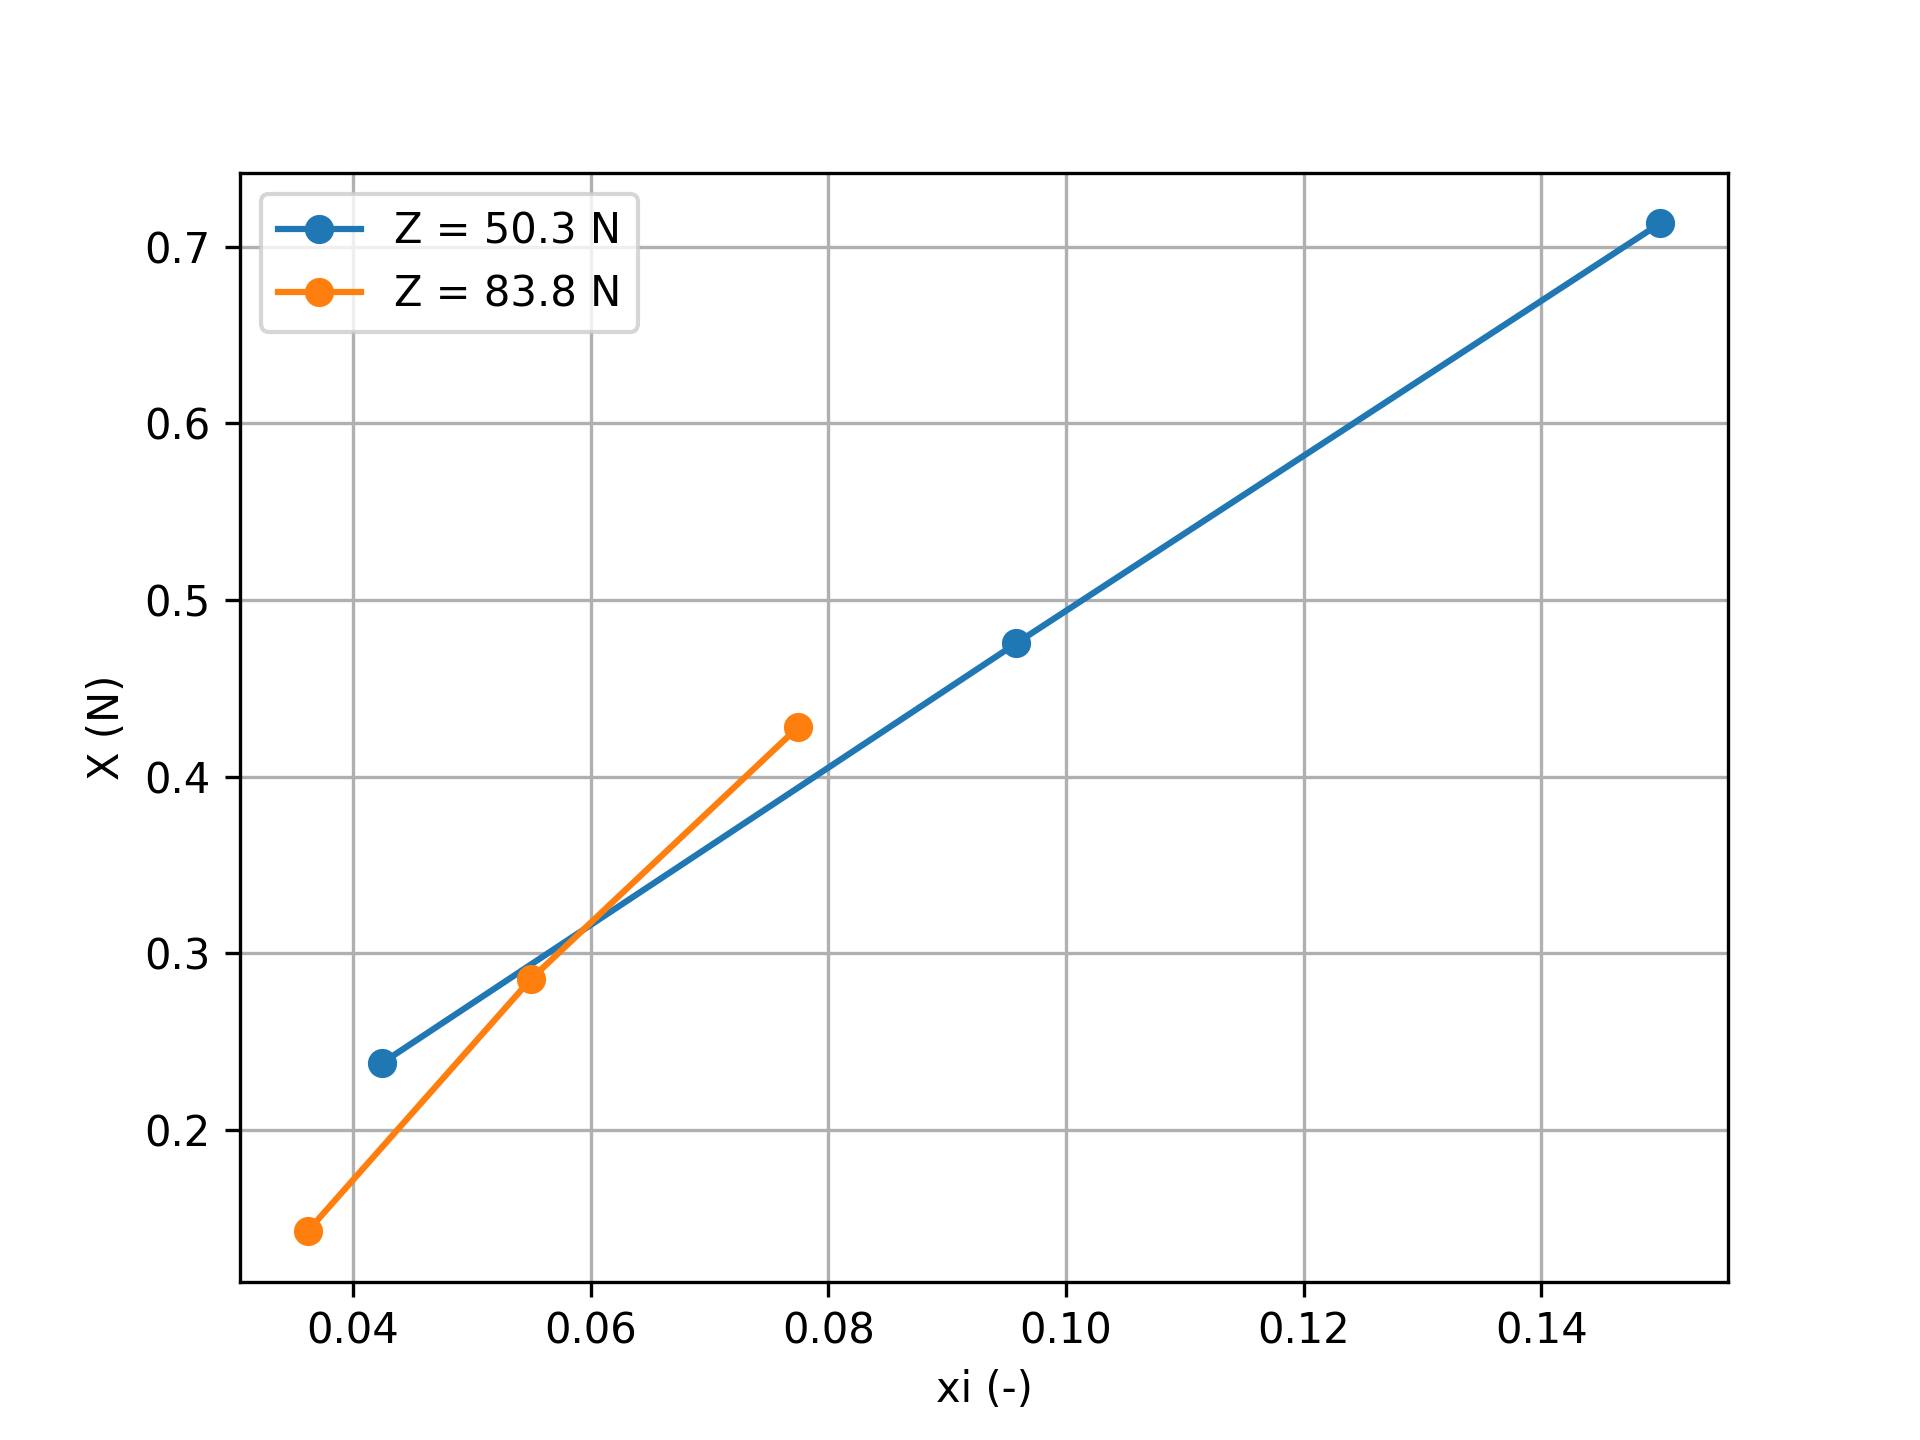
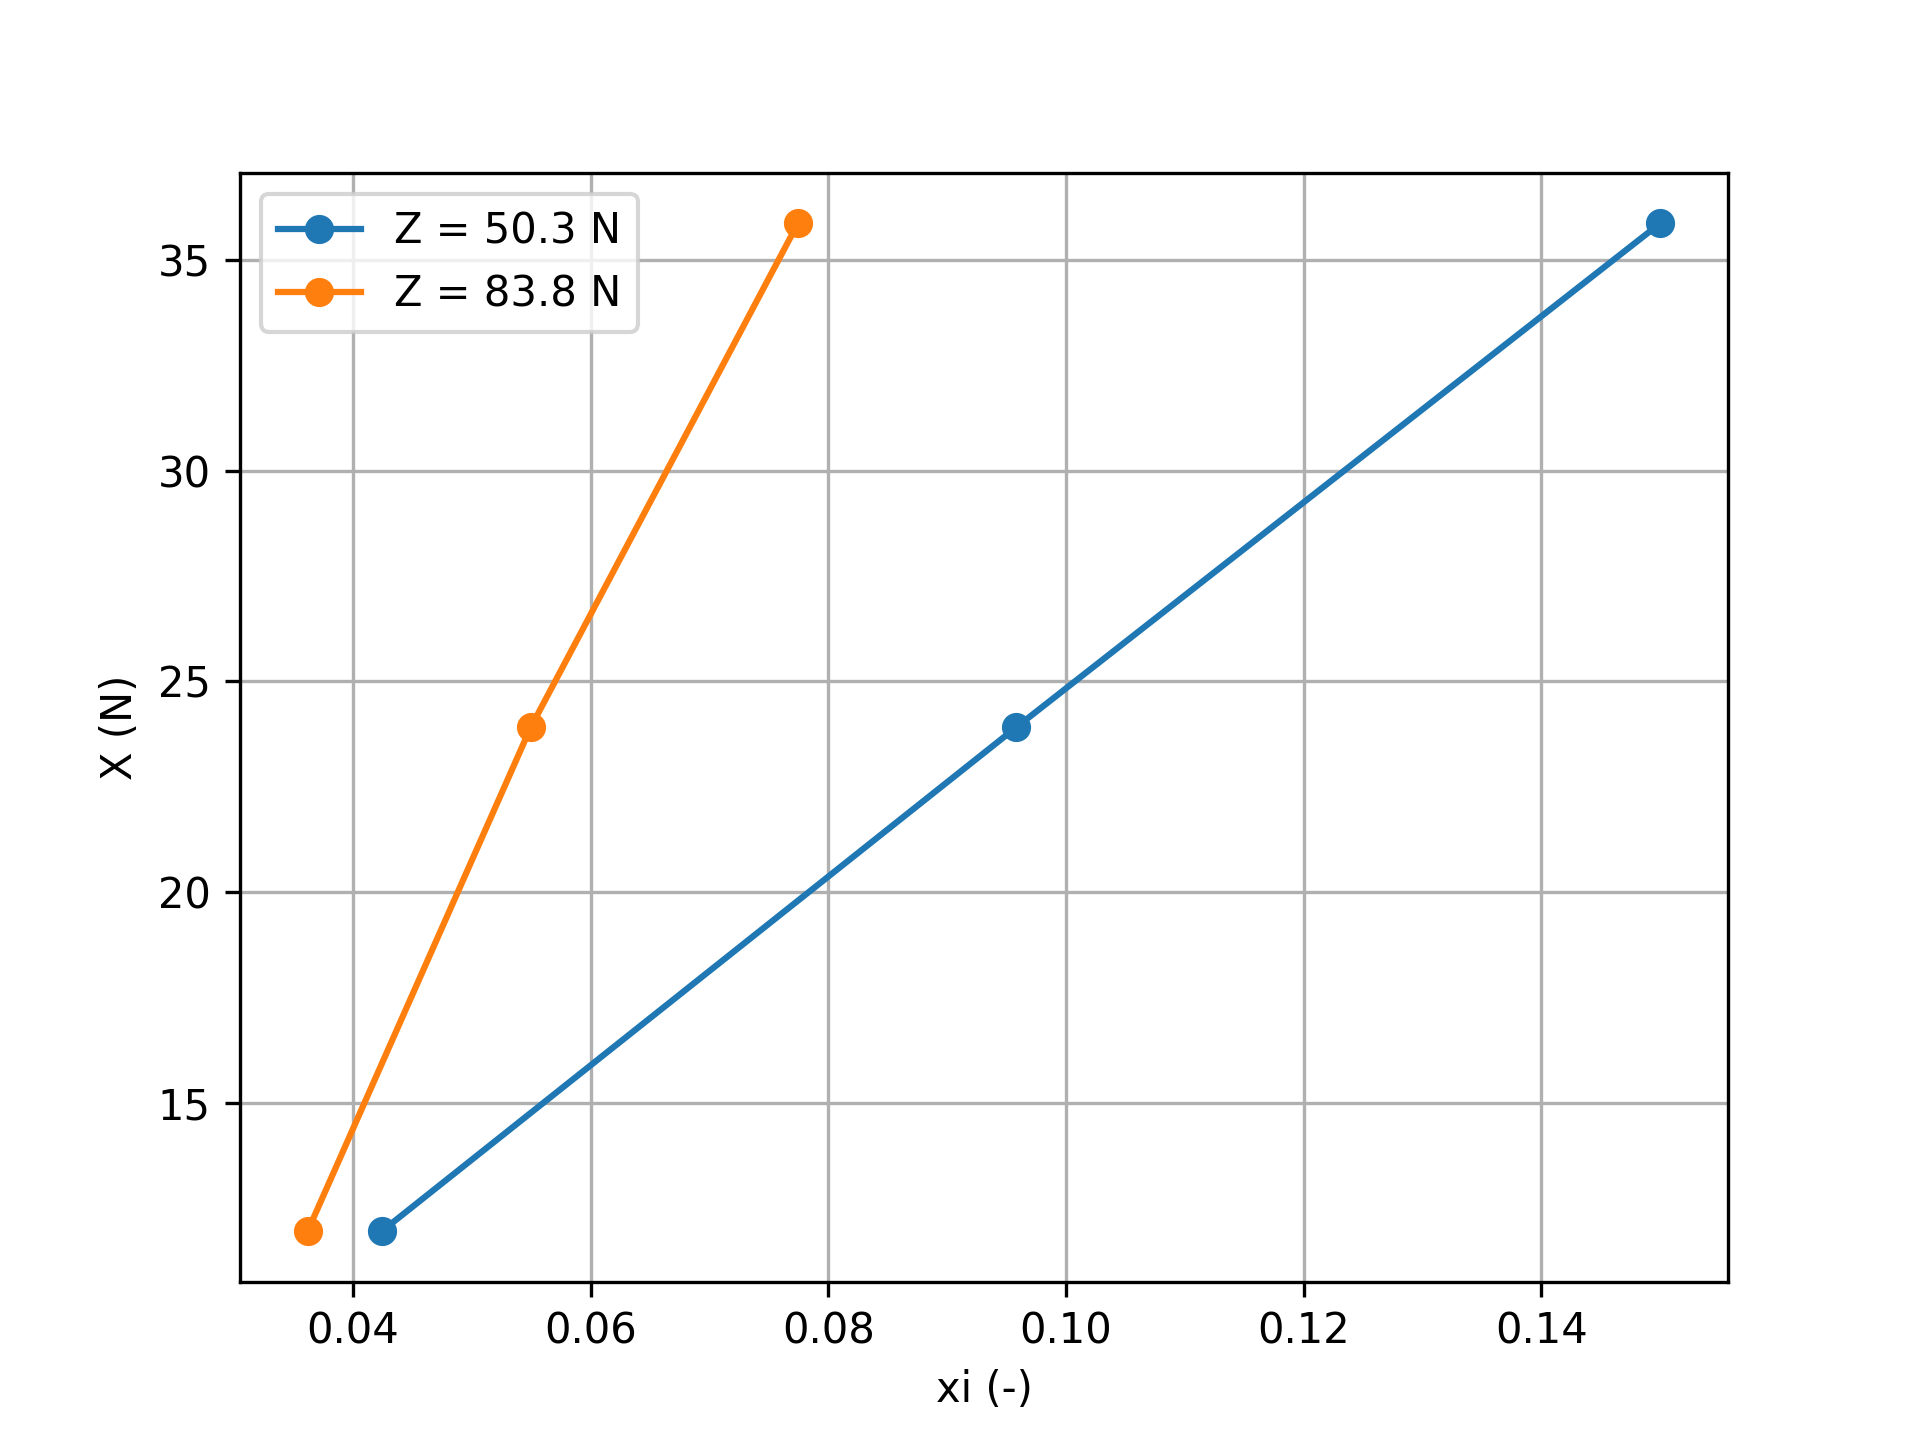
4C8 work forgot to commit so now going to get merge conflict

diff --git a/IIB/4C8/report.tex b/IIB/4C8/report.tex
@@ -130,17 +130,22 @@ This indicates both good accuracy and linearity of the transducer.
     \centering
     \includegraphics[width=0.8\textwidth]{4.3/Yss_vs_tandelta.png}
     \caption{Lateral force vs. tangent of steer angle.}
-    \label{fig:lateral_force_distance_speed}
+    \label{fig:Y_vs_alpha}
 \end{figure}
 
 \begin{center}
     \textbf{What causes the microslip?}
 \end{center}
+Microslip occurs where local frictional forces are insufficient to deform the tyre any further and so the tyre slips locally.
 
 \begin{center}
     \textbf{Comment on the relationship between the amount of microslip in the contact area and
     the shape of the Y vs. $ \alpha $ graph}
 \end{center}
+
+Figure \ref{fig:Y_vs_alpha} shows a region of linearity between lateral force and steer angle before plateauing at higher steer.
+This loss of linearity is due to the onset of microslip 
+
 
 \begin{center}
     \textbf{At which normal load is the tyre nearest to sliding for large
@@ -155,6 +160,13 @@ This indicates both good accuracy and linearity of the transducer.
 
 \subsection{\textbf{Creep with an Applied Torque}}
 
+\begin{figure}[H]
+    \centering
+    \includegraphics[width=0.8\textwidth]{52.png}
+    \caption{Longitudinal force vs longitudinal creepage for different loads.}
+    \label{fig:lateral_force_vs_longitudinal_force}
+\end{figure}
+
 \begin{center}
     \textbf{ Comment on the longitudinal deformation and compare it with the lateral deformation
     in section 4.3. Where is sliding most likely to occur? Comment also on the
@@ -162,8 +174,6 @@ This indicates both good accuracy and linearity of the transducer.
     vs.
     ξ graph.}
 \end{center}
-
-
 
 \begin{equation}
     \xi = \frac{\Delta x}{x} 

diff --git a/IIB/4C8/graphs.py b/IIB/4C8/graphs.py
@@ -35,10 +35,10 @@ Z5 = Z[3]
 # separate W into 5kg and 3kg
 
 plt.plot(
-    xi[W == 3], X[W == 3]/Z3, 'o-', label=f'Z = {Z3:.1f} N'
+    xi[W == 3], X[W == 3], 'o-', label=f'Z = {Z3:.1f} N'
 )
 plt.plot(
-    xi[W == 5], X[W == 5]/Z5,'o-', label=f'Z = {Z5:.1f} N'
+    xi[W == 5], X[W == 5],'o-', label=f'Z = {Z5:.1f} N'
 )
 # linear fit:
 C11_3, intercept3 = np.polyfit(xi[W == 3], X[W == 3], 1)
